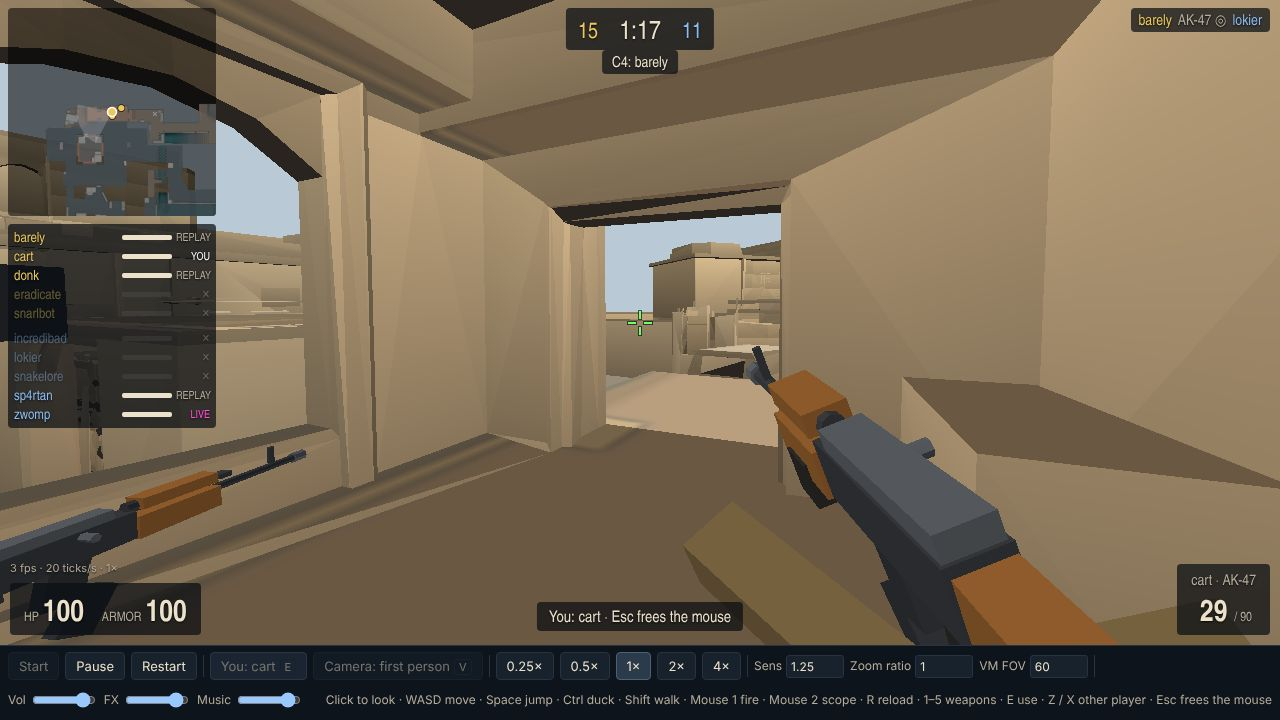
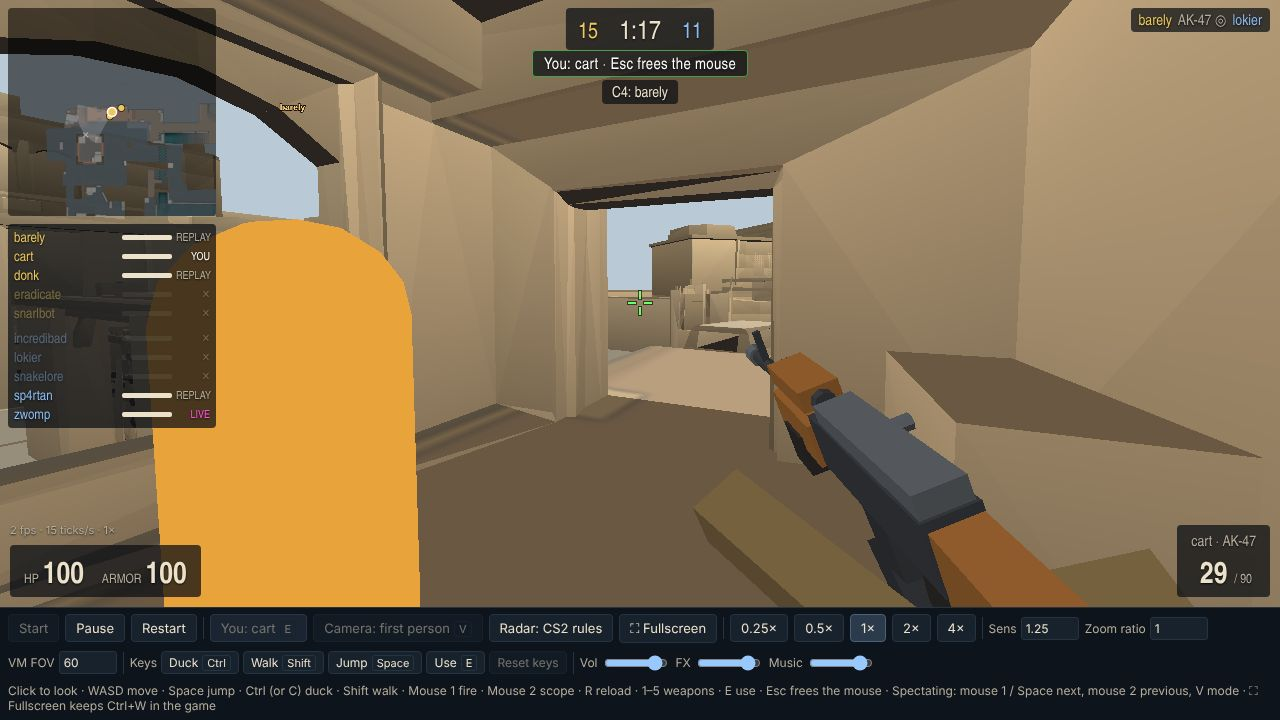
A1: final viewmodel screenshots, spectator viewmodel shot
Claude-Session: https://claude.ai/code/session_01VsL73uwF2Rjn3UxUMA33dN

diff --git a/tools/browser-check3d-a1.ts b/tools/browser-check3d-a1.ts
@@ -140,12 +140,12 @@ export async function a1Checks(_browser: Browser, ctx: A1Context, problems: stri
   }
   await p.evaluate(() => window.__cs2a1?.preview(null));
   await p.close();
-  // World models: watching, third person, at the start.
+  // World models: watching.
   const w = await ctx.open(1280, 720);
-  await w.evaluate(() => window.__cs2sim3d?.fly(-300, -400, 120, 140, 12));
-  await ctx.seek(w, 3);
-  await w.evaluate(() => window.__cs2sim3d?.camera('follow', 'cart'));
-  await w.waitForTimeout(400);
+  // Sp4rtaN's eyes at 49.95 s (the browser check's (d)): donk in front of him with his AK-47.
+  await ctx.seek(w, 49.95);
+  await w.evaluate(() => window.__cs2sim3d?.camera('pov', 'sp4rtan'));
+  await w.waitForTimeout(600);
   await shotTo(w, ctx, 'world', shots);
   await w.close();
   r['screenshots'] = shots;

diff --git a/docs/app3d.md b/docs/app3d.md
@@ -165,7 +165,7 @@ USP-S (suppressor), P2000, knife, C4 (bricks, keypad, display), HE, flashbang, s
 ![AK-47](img/app3d-viewmodel-ak47-idle.jpg)
 ![AK-47 mid-reload, mag out](img/app3d-viewmodel-ak47-reload.jpg)
 
-Also `app3d-viewmodel-{ak47-fire,m4a1s,awp,deagle,usps,knife,c4,he,world}.jpg` in docs/img.
+Also `app3d-viewmodel-{ak47-fire,m4a1s,awp,deagle,usps,knife,c4,he}.jpg` in docs/img, and `app3d-viewmodel-world.jpg`: spectating Sp4rtaN in first person (CT sleeves; U1's spectator view shows the spectated player's viewmodel). The reload screenshot shows a dead player's dropped AK-47 on the floor.
 
 ## Frames
 
